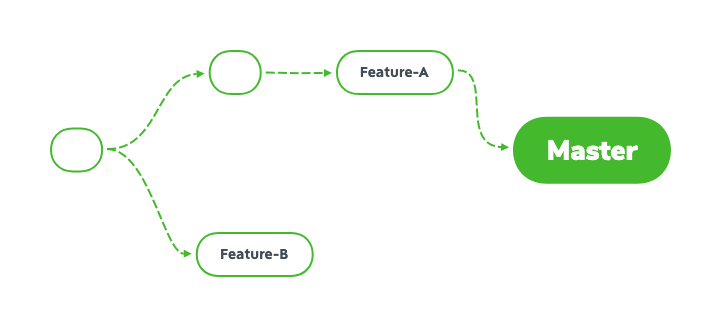
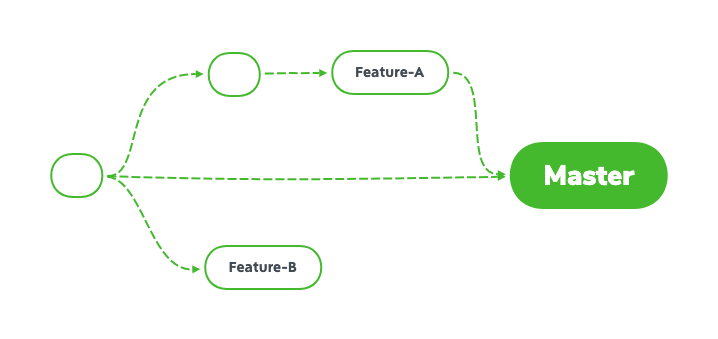
update docment

diff --git a/README.md b/README.md
@@ -231,3 +231,197 @@ git status
   git merge --no-ff Feature-A
   ```
   随后编辑器将会启动，用于录入合并信息。
+* git log --graph --- 以图标的形式查看分支
+  ```bash
+  *   commit ec7c2357dbd8ca2e0a1fd39e06e0d5b2379e323f (HEAD -> master)
+  |\  Merge: f14f30f 811efed
+  | | Author: gregrgr6 <gregrgr6@gmail.com>
+  | | Date:   Sat Feb 22 20:33:19 2020 +0800
+  | |
+  | |     Merge branch 'Feature-A'
+  | |     add text
+  | |
+  | * commit 811efed5460e2595ca6a54937a1b6a782b6b896b (Feature-A)
+  |/  Author: gregrgr6 <gregrgr6@gmail.com>
+  |   Date:   Sat Feb 22 20:32:31 2020 +0800
+  |
+  |       Add Text
+  |
+  * commit f14f30f9bd749c5a42ab0114695296379e77d5d5
+    Author: gregrgr6 <gregrgr6@gmail.com>
+    Date:   Sat Feb 22 19:10:51 2020 +0800
+
+        first commit
+  ```
+### 3.3 更改提交的操作
+* git reset --- 回撤到历史版本
+git的另一个特征就是可以灵活操作历史版本。借助分散仓库对的优势，可以不影响其它仓库的前提下对历史版本进行操作。
+这里我们先会带历史版本创建Feature-B分支。
+![](image/3-3.png)
+  * 回到Feature-A分支之前
+  让仓库的HEAD、暂存区、当前工作树回到指定状态，需要用到```git rest --hard```。只要提供目标时间点的哈希值。
+    ```bash
+    git reset --hard f14f30f9bd749c5a42ab0114695296379e77d5d5
+      HEAD 现在位于 f14f30f first commit
+    ```
+  * 创建Feature-B分支
+    ```bash 
+    git checkout -b Feature-B
+    ```
+    然后在README.md文件中添加
+    ```
+    # Git 教程
+    - Feature-B
+    ```
+    然后提交文件
+    ```bash
+    git add README.md
+    git commit -m "Feature-B"
+    [Feature-B 97ee5af] Feature-B
+    1 file changed, 2 insertions(+)
+    ```
+    现在的状态如下图所示
+    ![](image/3-4.png)
+    我们接下来要修改成如下图所示
+    ![](image/3-5.png)
+  * 推进至Feature-A分支合并后的状态
+  执行```git reflog```
+    ```bash
+    97ee5af (HEAD -> Feature-B) HEAD@{0}: commit: Feature-B
+    f14f30f (master) HEAD@{1}: checkout: moving from master to Feature-B
+    f14f30f (master) HEAD@{2}: reset: moving to f14f30f9bd749c5a42ab0114695296379e77d5d5
+    811efed (Feature-A) HEAD@{3}: reset: moving to 811efed5460e2595ca6a54937a1b6a782b6b896b
+    ec7c235 HEAD@{4}: merge Feature-A: Merge made by the 'recursive' strategy.
+    f14f30f (master) HEAD@{5}: checkout: moving from Feature-A to master
+    811efed (Feature-A) HEAD@{6}: checkout: moving from Feature-A to Feature-A
+    811efed (Feature-A) HEAD@{7}: commit: Add Text
+    f14f30f (master) HEAD@{8}: checkout: moving from master to Feature-A
+    f14f30f (master) HEAD@{9}: checkout: moving from Feature-A to master
+    f14f30f (master) HEAD@{10}: checkout: moving from master to Feature-A
+    f14f30f (master) HEAD@{11}: commit (initial): first commit
+    ```
+  可以看到每条命令的执行记录
+  我们将HEAD、暂存区、工作树恢复到合并时间点时候
+  ```bash
+  git checkout master
+    切换到分支 'master'
+  git reset --hard ec7c235
+    HEAD 现在位于 ec7c235 Merge branch 'Feature-A' add text
+  ```
+  * 消除冲突
+  现在只要合并Feature-B分支，就可以得到我们想要的状态。
+    ```bash
+    git merge --no-ff Feature-B
+    自动合并 README.md
+    冲突（内容）：合并冲突于 README.md
+    自动合并失败，修正冲突然后提交修正的结果。
+    ```
+  * 查看冲突部分并将其解决
+  修改合并文件内容成自己想要的结果即可。
+  * 提交解决后的结果
+  ```bash
+  git add README.md
+  git commit -m "Fix conflict"
+  ```
+* git commit --amend --- 修改提交的信息
+  执行```git commit --amend```编辑器就会启动
+  我们将修改的内容修改为“Merge branch "Funture-B"”
+  再用```git log --graph```就可以看到修改的历史
+    ```bash
+    *   commit bdfb09b1d35fa71fd691112f616a1419f04dd75e (HEAD -> master)
+    |\  Merge: ec7c235 97ee5af
+    | | Author: gregrgr6 <gregrgr6@gmail.com>
+    | | Date:   Sun Feb 23 12:30:30 2020 +0800
+    | |
+    | |     Merge branch "Funture-B"
+    | |
+    | * commit 97ee5afd8aa6bf60067f788e8a630e691feb0b69 (Feature-B)
+    | | Author: gregrgr6 <gregrgr6@gmail.com>
+    | | Date:   Sun Feb 23 10:27:31 2020 +0800
+    | |
+    | |     Feature-B
+    | |
+    * |   commit ec7c2357dbd8ca2e0a1fd39e06e0d5b2379e323f
+    |\ \  Merge: f14f30f 811efed
+    | |/  Author: gregrgr6 <gregrgr6@gmail.com>
+    |/|   Date:   Sat Feb 22 20:33:19 2020 +0800
+    | |
+    | |       Merge branch 'Feature-A'
+    | |       add text
+    | |
+    | * commit 811efed5460e2595ca6a54937a1b6a782b6b896b (Feature-A)
+    |/  Author: gregrgr6 <gregrgr6@gmail.com>
+    |   Date:   Sat Feb 22 20:32:31 2020 +0800
+    ```
+* git rebase -i --- 压缩历史
+在合并分支之前，如果发现已提交的内容中有些拼写错误，可以提交一个修改将这个修改包含到前一个提交之中，压缩成一个历史记录。
+  * 创建一个分支
+  ```bash
+  git checkout -b Feature-C
+  ```
+  然后将文件README.md修改如下
+  ```
+  # Git 教程
+  - Feature-B
+  - Feature-A
+  - Feature-C
+  ```
+  执行一步提交
+  ```bash
+  git commit -am "Add Feature-C"
+  ```
+  * 修正拼写错误
+  将README.md修改成下图所示
+    ```
+    diff --git a/README.md b/README.md
+    index 4808ab1..b3d13af 100644
+    --- a/README.md
+    +++ b/README.md
+    @@ -1,4 +1,4 @@
+    # Git 教程
+    - Feature-B
+    - Feature-A
+    -- Feature-C
+    +- Faeture-C
+    ```
+  然后进行提交
+  ```
+  git commit -am "Fix typo"
+    [Feature-C 3d6912f] Fix typo
+    1 file changed, 1 insertion(+), 1 deletion(-)
+  ```
+  * 更改历史
+  ```bash
+  git rebase -i HEAD~2
+  ```
+  执行上述命令之后，可以选定当前分支中包含的两个最新历史为对象，并在编辑器当中打开
+  ```base 
+  pick 35ea826 Add Feature-C
+  pick 3d6912f Fix typo
+
+  # 变基 bdfb09b..3d6912f 到 bdfb09b（2 个提交）
+  #
+  # 命令:
+  # p, pick <提交> = 使用提交
+  # r, reword <提交> = 使用提交，但修改提交说明
+  # e, edit <提交> = 使用提交，进入 shell 以便进行提交修补
+  # s, squash <提交> = 使用提交，但融合到前一个提交
+  # f, fixup <提交> = 类似于 "squash"，但丢弃提交说明日志
+  # x, exec <命令> = 使用 shell 运行命令（此行剩余部分）
+  # b, break = 在此处停止（使用 'git rebase --continue' 继续变基）
+  # d, drop <提交> = 删除提交
+  # l, label <label> = 为当前 HEAD 打上标记
+  # t, reset <label> = 重置 HEAD 到该标记
+  # m, merge [-C <commit> | -c <commit>] <label> [# <oneline>]
+  # .       创建一个合并提交，并使用原始的合并提交说明（如果没有指定
+  # .       原始提交，使用注释部分的 oneline 作为提交说明）。使用
+  # .       -c <提交> 可以编辑提交说明。
+  #
+  # 可以对这些行重新排序，将从上至下执行。
+  #
+  # 如果您在这里删除一行，对应的提交将会丢失。
+  ```
+  将第二行左侧的pick改为fixup
+  这样之前的历史就被抹去了
+  * 合并至master分支
+  
